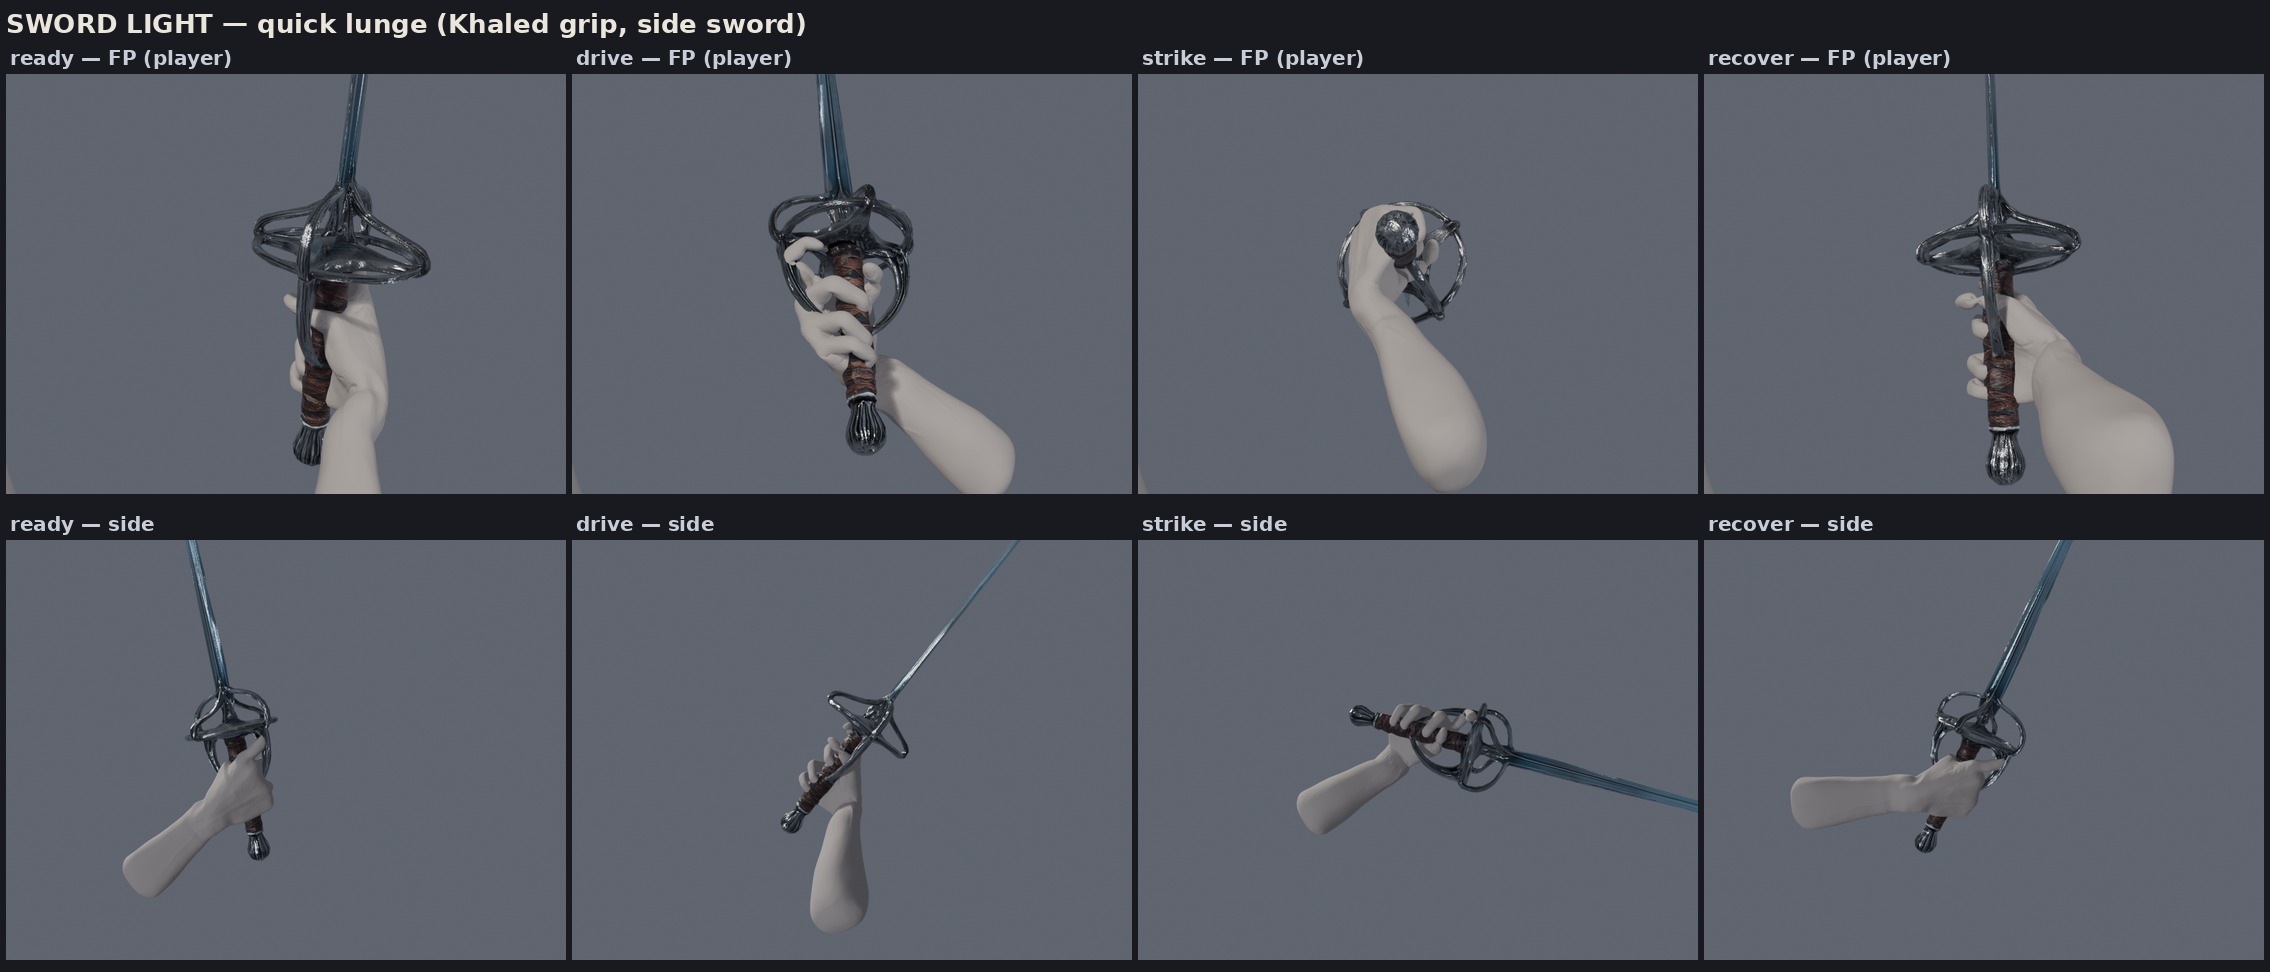
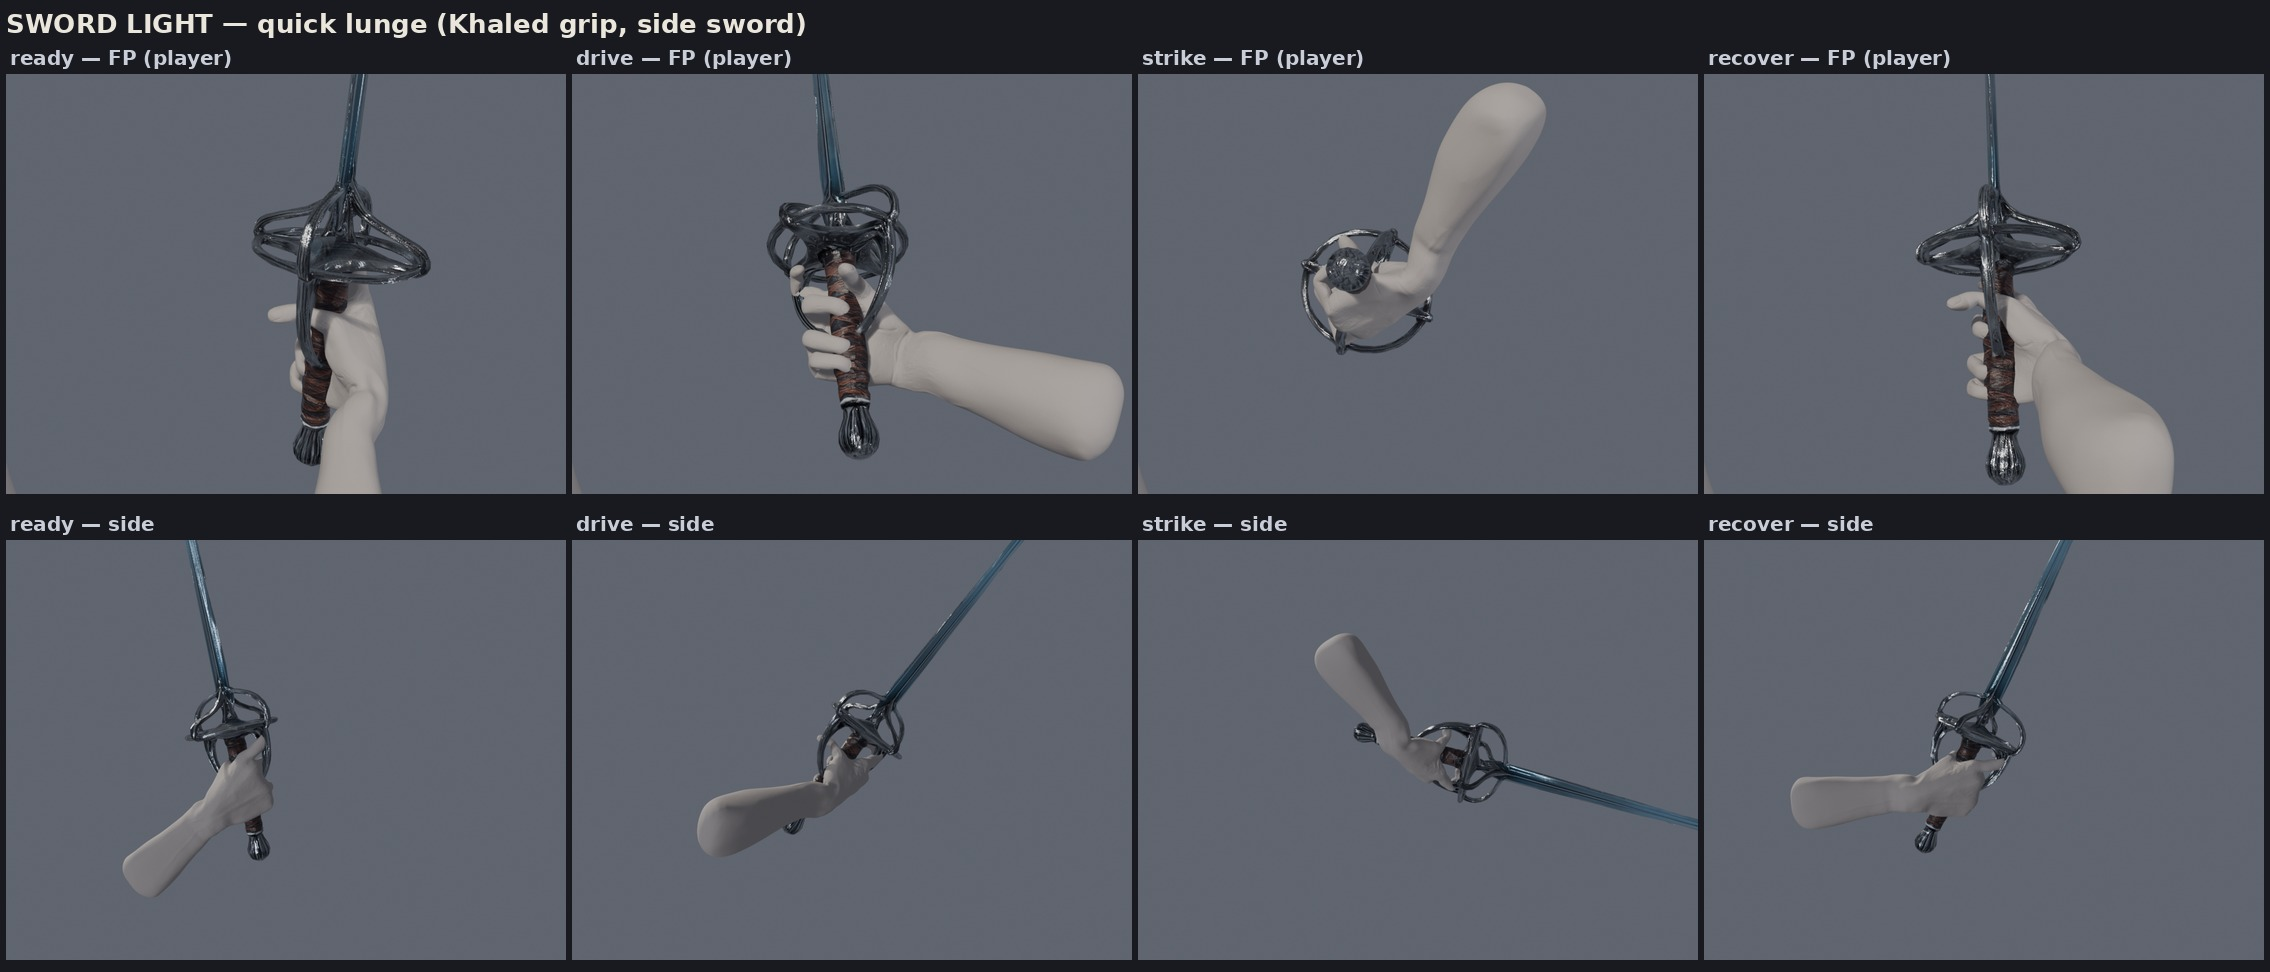
Light strike: pronate to thumb-left per Khaled
A natural right-handed thrust ends PRONATED — thumb inboard/LEFT from
the player's view. Probed empirically (probe_strike_pronation.py):

- The forearm-roll channel is a WORLD-POSE NO-OP under the world-space
  key solver: blade dir + forearm hint pin the assembly, and the forearm
  axis is invariant under its own roll, so roll_d never moves the thumb.
- The real knob is the ASSEMBLY SPIN: rotate the forearm-side hint about
  the blade axis. Swept theta -150..+150 plus wrist combos; theta=-120
  lands the thumb solidly screen-left (thumb dir x -0.65) with the elbow
  riding up-and-out right - the classic high-line pronated stab. The
  wrist stays at the approved legal flex 0 / dev -10; no clamp was
  approached, so no forearm/wrist split was needed (the roll lives in
  the object-level arm, where the rig actually expresses it).
- Drive gets theta=-60 so the pronation rolls through drive->strike
  instead of snapping at the last key.

Updated sword_light_keys_grid.jpg proves the thumb-left arrival.

diff --git a/tools/probe_strike_pronation.py b/tools/probe_strike_pronation.py
@@ -1,0 +1,70 @@
+# PROBE (amendment 2): which forearm-roll delta lands the light-lunge strike
+# with the thumb facing screen-LEFT (pronated right-hand thrust, Khaled's
+# correction)? Sweeps candidate roll deltas on the 3_strike key, prints the
+# world thumb direction (screen-left = -X from the FP camera), renders FP
+# stills for the eyeball check (gotcha 26: never trust chirality reasoning).
+#
+#   blender --background cgtrader_hand_wristed.blend --python probe_strike_pronation.py --
+import bpy, sys, math
+from mathutils import Vector
+
+SRC = r'\\wsl.localhost\Ubuntu\home\khaled\Kore\tools\sword_attack_keys.py'
+_code = open(SRC).read()
+exec(_code[:_code.rfind('def main')])
+
+
+def thumb_probe(right):
+    bpy.context.view_layer.update()
+    deps = bpy.context.evaluated_depsgraph_get()
+    ev = right.evaluated_get(deps)
+    M = right.matrix_world
+    base = M @ Vector(ev.pose.bones['Bone.001'].head)
+    tip = M @ Vector(ev.pose.bones['Bone.003'].tail)
+    d = (tip - base).normalized()
+    return d, base
+
+
+right, left, sword, report = build_retargeted_grip()
+cam = setup_world()
+base_hand_q = right.pose.bones['hand'].rotation_quaternion.copy()
+base_roll = report['forearm_roll_deg']
+
+label, fist_w, d_blade, d_hint, flex, dev, _ = ATTACKS['light'][2]  # 3_strike
+fp_loc = Vector((0.0, -8.2, 4.9))
+fp_aim = Vector((FP_AIM_X['light'], 1.5, 3.35))
+
+# FINDING (first sweep): roll_d is a WORLD-POSE NO-OP under this solver —
+# blade + forearm-hint are both pinned, and the forearm axis is invariant
+# under rotation about itself, so the assembly spin about the blade is fully
+# determined by (d_blade, d_hint). Thumb dir was identical at every roll_d.
+# The real knob: rotate the HINT about the blade axis (spins fist + elbow
+# together), plus wrist flex/dev (shifts the forearm-in-hand azimuth, i.e.
+# thumb-vs-elbow). Sweep both.
+from mathutils import Matrix, Quaternion
+
+b_hat = Vector(d_blade).normalized()
+for theta in (0, 60, 90, 120, 150, -60, -90, -120, -150):
+    Rt = Quaternion(b_hat, math.radians(theta))
+    hint = tuple(Rt @ Vector(d_hint))
+    key = (label, fist_w, d_blade, hint, flex, dev, 0)
+    solve_key(right, sword, base_hand_q, base_roll, key)
+    d, base = thumb_probe(right)
+    print('THETA %+4d  thumb dir (%+.2f,%+.2f,%+.2f)  hint (%+.2f,%+.2f,%+.2f)'
+          % (theta, *d, *hint))
+    render(cam, 'probe_th_%s' % str(theta).replace('-', 'm'),
+           fp_loc, fp_aim, FP_LENS['light'])
+
+# wrist contribution at the best-looking thetas
+for theta, fx, dv in ((-75, 30, -30), (-90, 30, -30), (-105, 30, -30),
+                      (-90, 45, -35), (-105, 45, -35), (-120, 20, -20)):
+    Rt = Quaternion(b_hat, math.radians(theta))
+    hint = tuple(Rt @ Vector(d_hint))
+    key = (label, fist_w, d_blade, hint, fx, dv, 0)
+    solve_key(right, sword, base_hand_q, base_roll, key)
+    d, base = thumb_probe(right)
+    print('THETA %+4d flex %+3d dev %+3d  thumb dir (%+.2f,%+.2f,%+.2f)'
+          % (theta, fx, dv, *d))
+    render(cam, 'probe_th_%s_f%s_d%s' % (str(theta).replace('-', 'm'),
+                                         str(fx).replace('-', 'm'),
+                                         str(dv).replace('-', 'm')),
+           fp_loc, fp_aim, FP_LENS['light'])

diff --git a/tools/sword_attack_keys.py b/tools/sword_attack_keys.py
@@ -34,10 +34,19 @@ exec(_code[:_code.rfind('def main')])
 # (label, fist world pos, blade world dir, forearm-side hint,
 #  flex deg, dev deg, pronation delta deg)
 ATTACKS = {
+    # AMENDMENT 2 (2026-07-21, Khaled): the strike must arrive PRONATED —
+    # thumb inboard/LEFT from the player's view (natural right-hand thrust),
+    # not thumb-right. PROBED (probe_strike_pronation.py): the forearm-roll
+    # channel is a WORLD-POSE NO-OP under this solver — blade + hint pin the
+    # assembly, and the forearm axis is invariant under its own roll — so the
+    # pronation is authored as the ASSEMBLY SPIN: the forearm-side hint
+    # rotated about the blade axis (drive -60 deg, strike -120 deg; the
+    # wrist stays at the approved legal flex/dev). Elbow rides up-and-out
+    # right — the classic high-line pronated stab.
     'light': [
         ('1_ready',   (2.10, 0.35, 3.30), (0.06, -0.20, 0.98), (0.15, 0.30, 0.94), -14, 0, 0),
-        ('2_drive',   (1.90, 1.70, 3.40), (0.02, 0.62, 0.78),  (-0.25, 0.50, 0.83), -5, 0, 0),
-        ('3_strike',  (1.65, 2.70, 3.15), (0.18, 0.95, -0.25), (-0.35, 0.60, 0.70), 0, -10, 10),
+        ('2_drive',   (1.90, 1.70, 3.40), (0.02, 0.62, 0.78),  (-0.224, 0.731, 0.646), -5, 0, 5),
+        ('3_strike',  (1.65, 2.70, 3.15), (0.18, 0.95, -0.25), (-0.442, 0.208, -0.857), 0, -10, 10),
         ('4_recover', (2.00, 1.10, 3.30), (0.05, 0.42, 0.90),  (0.05, 0.65, 0.75),  -9, 0, 0),
     ],
     'heavy_lr': [
